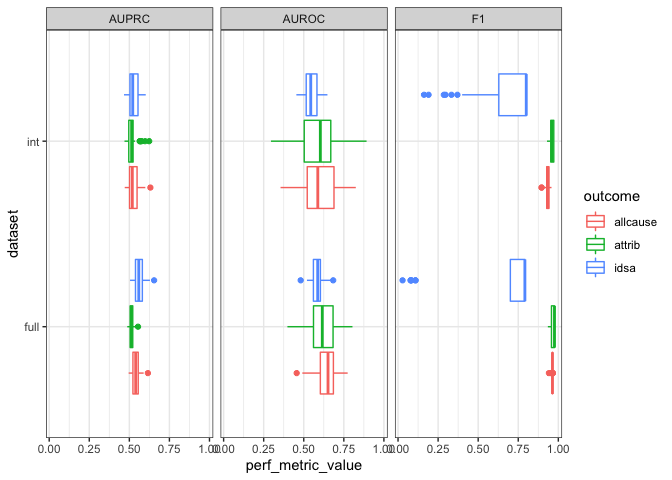
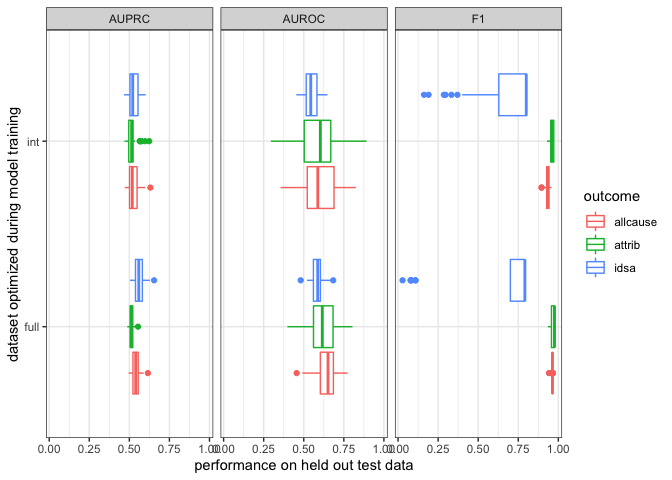
updated plot axis labels

Changed region(s): [[0.2812, 0.9375, 0.625, 1.0], [0.0, 0.2188, 0.0312, 0.75]]

diff --git a/workflow/notebooks/ml-params.md b/workflow/notebooks/ml-params.md
@@ -60,7 +60,8 @@ results_dat %>%
   ggplot(aes(perf_metric_value, dataset, color = outcome)) +
   geom_boxplot() +
   theme_bw() +
-  facet_wrap('perf_metric_name')
+  facet_wrap('perf_metric_name') +
+  labs(y="dataset optimized during model training", x="performance on held out test data")
 ```
 
 ![](figures/plot_dataset-2.png)<!-- -->
@@ -84,7 +85,8 @@ results_dat %>%
   ggplot(aes(perf_metric_value, method, color = outcome)) +
   geom_boxplot() +
   theme_bw() +
-  facet_wrap('perf_metric_name')
+  facet_wrap('perf_metric_name') +
+  labs(y="method optimized during model training", x="performance on held out test data")
 ```
 
 ![](figures/plot_method-2.png)<!-- -->
@@ -108,7 +110,8 @@ results_dat %>%
   ggplot(aes(perf_metric_value, metric, color = outcome)) +
   geom_boxplot() +
   theme_bw() +
-  facet_wrap('perf_metric_name')
+  facet_wrap('perf_metric_name') +
+  labs(y="metric optimized during model training", x="performance on held out test data")
 ```
 
 ![](figures/plot_metric-2.png)<!-- -->
